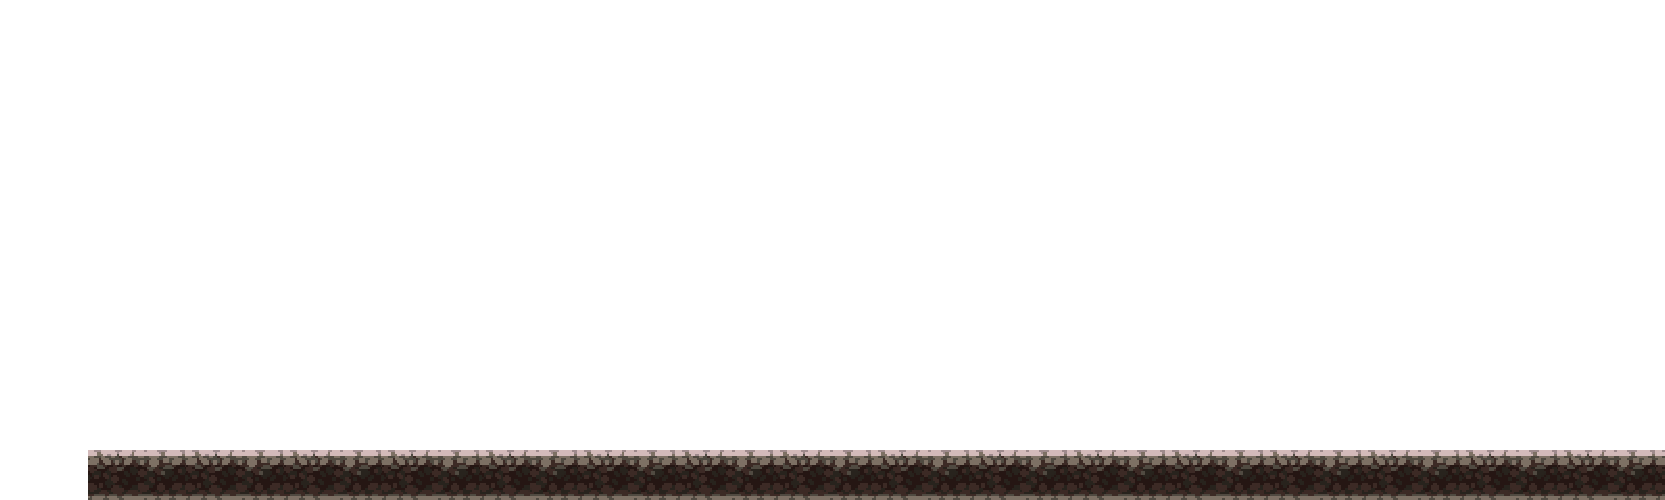
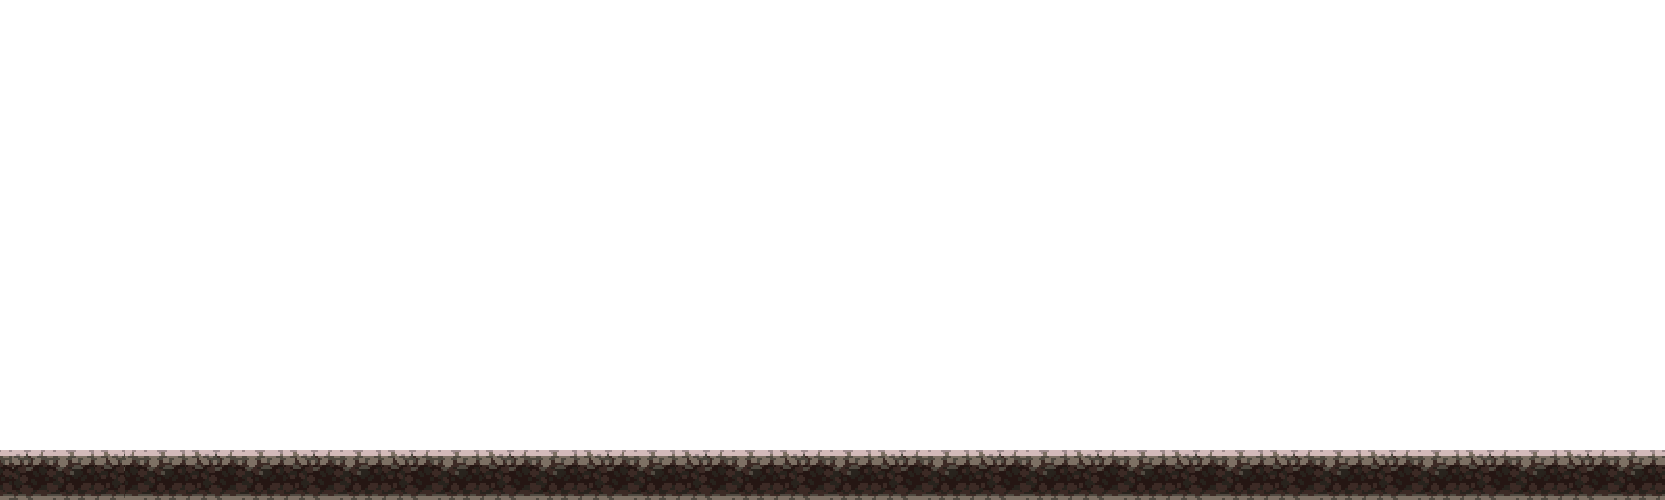
background paralax effect done

Changed region(s): [[0.0, 0.9, 0.0937, 1.0]]

diff --git a/playerStates.js b/playerStates.js
@@ -26,11 +26,11 @@ export class Standing extends State{
     handleInput(input){
         
         if(input.includes('ArrowRight') || input.includes('ArrowLeft')){
-            this.player.setState(states.RUNNING)
+            this.player.setState(states.RUNNING, 1)
         }
-        else if(input.includes('ArrowDown'))this.player.setState(states. SITTING)
-        else if(input.includes('ArrowUp'))this.player.setState(states.  JUMPING)
-        else if(input.includes('Control'))this.player.setState(states.  ATTACKING)
+        else if(input.includes('ArrowDown'))this.player.setState(states. SITTING, 0)
+        else if(input.includes('ArrowUp'))this.player.setState(states.  JUMPING, 1)
+        else if(input.includes('Control'))this.player.setState(states.  ATTACKING, 0)
     }
 }
 export class Sitting extends State{
@@ -46,12 +46,12 @@ export class Sitting extends State{
     }
 
     handleInput(input){
-        if(input.length === 0 && this.player.onGround())this.player.setState(states.STANDING)
+        if(input.length === 0 && this.player.onGround())this.player.setState(states.STANDING, 0)
         else if(input.includes('ArrowRight') || input.includes('ArrowLeft')){
-            this.player.setState(states.RUNNING)
+            this.player.setState(states.RUNNING, 1)
         }
-        else if(input.includes('ArrowUp'))this.player.setState(states.  JUMPING)
-        else if(input.includes('Control'))this.player.setState(states.  ATTACKING)
+        else if(input.includes('ArrowUp'))this.player.setState(states.  JUMPING, 1)
+        else if(input.includes('Control'))this.player.setState(states.  ATTACKING, 0)
     }
 }
 
@@ -69,10 +69,10 @@ export class Running extends State{
     }
     
     handleInput(input){
-        if(input.length === 0  && this.player.onGround()){this.player.setState(states.SITTING)
+        if(input.length === 0  && this.player.onGround()){this.player.setState(states.SITTING, 0)
         }
-        else if(input.includes('ArrowUp'))this.player.setState(states.  JUMPING)
-        else if(input.includes('Control'))this.player.setState(states.  ATTACKING)
+        else if(input.includes('ArrowUp'))this.player.setState(states.  JUMPING, 1)
+        else if(input.includes('Control'))this.player.setState(states.  ATTACKING, 1.2)
     }
 }
 
@@ -90,8 +90,8 @@ export class Jumping extends State{
     }
     
     handleInput(input){
-        if(input.length === 0 && this.player.onGround())this.player.setState(states.STANDING)
-        else if(input.includes('Control'))this.player.setState(states.  ATTACKING)
+        if(input.length === 0 && this.player.onGround())this.player.setState(states.STANDING, 0)
+        else if(input.includes('Control'))this.player.setState(states.  ATTACKING, 1.2)
     }
 }
 
@@ -108,8 +108,8 @@ export class Jumping extends State{
     }
 
     handleInput(input){
-        if(input.length === 0 && this.player.onGround())this.player.setState(states.STANDING)
-        else if(input.includes('ArrowUp'))this.player.setState(states.  JUMPING)
+        if(input.length === 0 && this.player.onGround())this.player.setState(states.STANDING, 0)
+        else if(input.includes('ArrowUp'))this.player.setState(states.  JUMPING, 1)
         
     }
 }

diff --git a/background.js b/background.js
@@ -19,6 +19,7 @@ class Layer{
     /** Que elemento del background quiero pintar*/
     draw(context){
         context.drawImage(this.image, this.x, this.y, this.width, this.height)
+        context.drawImage(this.image, this.x + this.width, this.y, this.width , this.height)
     }
 }
 
@@ -30,9 +31,32 @@ export class Background{
         this.width = 1667
         this.height = 500
         /**Aqui cojo las imagenes del html e instancio el nuevo objeto layer con sus parametros */
-        this.layer1Image = document.getElementById('layer1') //Podria usar layer1 a secas tambien funciona
-        this.groundLayer = new Layer(this.game, this.width, this.height, 1, this.layer1Image)
-        this.backgroundLayers = [this.groundLayer]
+       
+        this.layer11Image = document.getElementById('layer11') 
+        this.layer11 = new Layer(this.game, this.width, this.height, 0, this.layer11Image)
+        this.layer10Image = document.getElementById('layer10') 
+        this.layer10 = new Layer(this.game, this.width, this.height, 0.2, this.layer10Image)
+        this.layer9Image = document.getElementById('layer9') 
+        this.layer9 = new Layer(this.game, this.width, this.height, 0.4, this.layer9Image)
+        this.layer8Image = document.getElementById('layer8') 
+        this.layer8 = new Layer(this.game, this.width, this.height, 0.6, this.layer8Image)
+        this.layer7Image = document.getElementById('layer7') 
+        this.layer7 = new Layer(this.game, this.width, this.height, 0.7, this.layer7Image)
+        this.layer6Image = document.getElementById('layer6') 
+        this.layer6 = new Layer(this.game, this.width, this.height, 1.2, this.layer6Image)
+        this.layer5Image = document.getElementById('layer5') 
+        this.layer5 = new Layer(this.game, this.width, this.height, 1, this.layer5Image)
+        this.layer4Image = document.getElementById('layer4') 
+        this.layer4 = new Layer(this.game, this.width, this.height, 1.4, this.layer4Image)
+        this.layer3Image = document.getElementById('layer3') 
+        this.layer3 = new Layer(this.game, this.width, this.height, 1, this.layer3Image)
+        this.layer2Image = document.getElementById('layer2') 
+        this.layer2 = new Layer(this.game, this.width, this.height, 2, this.layer2Image)
+        this.layer1Image = document.getElementById('layer1') 
+        this.layer1 = new Layer(this.game, this.width, this.height, 1, this.layer1Image)
+        
+        
+        this.backgroundLayers = [this.layer11,this.layer10, this.layer9,this.layer8, this.layer7, this.layer6, this.layer5, this.layer4, this.layer3, this.layer2, this.layer1]
     }
 
     update(){

diff --git a/index.html b/index.html
@@ -9,18 +9,18 @@
 </head>
 <body>
     <canvas id="canvas1"></canvas>
-    <img id="playerId" src="./img/Fullmain.png">
-    <img id="layer1" src="./img/floor.png">
-    <img id="layer2" src="./img/01_Mist.png">
-    <img id="layer3" src="./img/02_Bushes.png">
-    <img id="layer4" src="./img/03_Particles.png">
-    <img id="layer5" src="./img/04_Forest.png">
-    <img id="layer6" src="./img/05_Particles.png">
-    <img id="layer7" src="./img/06_Forest.png">
-    <img id="layer8" src="./img/07_Forest.png">
-    <img id="layer9" src="./img/08_Forest.png">
-    <img id="layer10" src="./img/09_Forest.png">
     <img id="layer11" src="./img/10_Sky.png">
+    <img id="layer10" src="./img/09_Forest.png">
+    <img id="layer9" src="./img/08_Forest.png">
+    <img id="layer8" src="./img/07_Forest.png">
+    <img id="layer7" src="./img/06_Forest.png">
+    <img id="layer6" src="./img/05_Particles.png">
+    <img id="layer5" src="./img/04_Forest.png">
+    <img id="layer4" src="./img/03_Particles.png">
+    <img id="layer3" src="./img/02_Bushes.png">
+    <img id="layer2" src="./img/01_Mist.png">
+    <img id="layer1" src="./img/floor.png">
+    <img id="playerId" src="./img/Fullmain.png">
     <script type="module" src="index.js"></script>
 </body>
 </html>

diff --git a/index.js b/index.js
@@ -8,7 +8,7 @@ window.addEventListener("load", function(){
     /**Logicas 2d */
     const ctx = canvas.getContext("2d");
     
-    canvas.width = 800
+    canvas.width = 600
     canvas.height = 500
 
     //Clase juego donde paso lo parámetro de este e inicializare los objetos dentro de este
@@ -19,7 +19,8 @@ window.addEventListener("load", function(){
             this.width = width
             this.height = height
             this.groundMargin = 42
-            this.speed = 3
+            this.speed = 0
+            this.maxSpeed = 3
             this.player = new Player(this)
             this.input = new InputHandler()
             this.backGround = new Background(this)

diff --git a/player.js b/player.js
@@ -64,8 +64,9 @@ export class Player {
 
     }
 
-    setState(state){
+    setState(state, speed){
         this.currentState = this.states[state]
         this.currentState.enter()
+        this.game.speed = this.game.maxSpeed * speed
     }
 }
